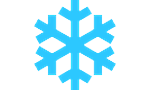
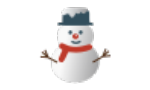
feat: 今日の天気のアイコンを細かく（強い雨→大雨・強い雪→大雪・凍る雨/霧雨を追加）、雪・大雪を雪だるまの絵に
- CODE_MAPPING: 65・82・67 → 306 大雨、75・86 → 405 大雪。56・57・66・67（凍る霧雨・凍る雨）は抜けていて「?」になっていた
- weather_icons/400.png・405.png を雪だるまに差し替え（1 週間の天気も同じ絵）
- テスト: Open-Meteo の全天気コードが対応表にあること・強さの対応
- README: 今日の天気のアイコン対応表を更新

Claude-Session: https://claude.ai/code/session_01M6MmCFRYFULb3Pq5EuzxK3

diff --git a/config.py b/config.py
@@ -96,12 +96,14 @@ AIRPORT_NAME = "中部国際空港"
 
 # Open-Meteo（WMO）の天気コード → 気象庁の天気コード（アイコン weather_icons/{コード}.png）
 CODE_MAPPING = {
-    0: "100", 1: "100", 2: "101", 3: "200",
-    45: "209", 48: "209",                       # 霧
-    51: "202", 53: "202", 55: "202",
-    61: "300", 63: "302", 65: "302",
-    71: "400", 73: "400", 75: "400",
-    77: "400", 80: "302", 81: "302",
-    82: "302", 85: "400", 86: "400",
-    95: "350", 96: "350", 99: "350"             # 雷雨（96・99 はひょうを伴う）→ 雨で雷（以前は 雨・雪 のアイコンだった）
+    0: "100", 1: "100", 2: "101", 3: "200",       # 快晴・晴れ・晴れ時々曇り・曇り
+    45: "209", 48: "209",                         # 霧
+    51: "202", 53: "202", 55: "202",              # 霧雨
+    56: "202", 57: "202",                         # 凍る霧雨（以前は抜けていて「?」になっていた）
+    61: "300", 63: "302", 65: "306",              # 雨（弱・並・強 → 強は大雨）
+    66: "300", 67: "306",                         # 凍る雨（以前は抜けていて「?」になっていた）
+    71: "400", 73: "400", 75: "405", 77: "400",   # 雪（強 → 大雪）・霧雪
+    80: "302", 81: "302", 82: "306",              # にわか雨（激しい → 大雨）
+    85: "400", 86: "405",                         # にわか雪（強 → 大雪）
+    95: "350", 96: "350", 99: "350",              # 雷雨（96・99 はひょうを伴う）→ 雨で雷
 }

diff --git a/tests/test_weather_fetch.py b/tests/test_weather_fetch.py
@@ -219,3 +219,20 @@ def test_every_mapped_code_has_icon():
     from config import ICON_DIR
     for jma in set(fw.CODE_MAPPING.values()):
         assert os.path.exists(os.path.join(ICON_DIR, f"{jma}.png")), jma
+
+
+# Open-Meteo が返す天気コード（WMO）すべて
+WMO_CODES = [0, 1, 2, 3, 45, 48, 51, 53, 55, 56, 57, 61, 63, 65, 66, 67, 71, 73, 75, 77,
+             80, 81, 82, 85, 86, 95, 96, 99]
+
+
+def test_every_wmo_code_is_mapped():
+    """抜けがあると「?（不明）」のアイコンになる（凍る雨・凍る霧雨が抜けていた）"""
+    assert [c for c in WMO_CODES if c not in fw.CODE_MAPPING] == []
+
+
+@pytest.mark.parametrize("wmo, jma", [(65, "306"), (82, "306"), (67, "306"), (75, "405"), (86, "405"),
+                                      (63, "302"), (73, "400")])
+def test_heavy_rain_and_snow_icons(wmo, jma):
+    """強い雨は「大雨」、強い雪は「大雪」。並の強さは今までどおり"""
+    assert fw.CODE_MAPPING[wmo] == jma

diff --git a/README.md b/README.md
@@ -465,13 +465,15 @@ WantedBy=multi-user.target
 | 晴れ時々曇り（2） | ![](weather_icons/101.png) `101` 晴時々曇 |
 | 曇り（3） | ![](weather_icons/200.png) `200` 曇 |
 | 霧（45・48） | ![](weather_icons/209.png) `209` 霧 |
-| 霧雨（51・53・55） | ![](weather_icons/202.png) `202` 曇一時雨 |
-| 弱い雨（61） | ![](weather_icons/300.png) `300` 雨 |
-| 雨・にわか雨（63・65・80〜82） | ![](weather_icons/302.png) `302` 雨時々止む |
-| 雪（71〜77・85・86） | ![](weather_icons/400.png) `400` 雪 |
+| 霧雨・凍る霧雨（51・53・55・56・57） | ![](weather_icons/202.png) `202` 曇一時雨 |
+| 弱い雨・弱い凍る雨（61・66） | ![](weather_icons/300.png) `300` 雨 |
+| 雨・にわか雨（63・80・81） | ![](weather_icons/302.png) `302` 雨時々止む |
+| **強い雨**・激しいにわか雨・強い凍る雨（65・82・67） | ![](weather_icons/306.png) `306` 大雨 |
+| 雪・霧雪・にわか雪（71・73・77・85） | ![](weather_icons/400.png) `400` 雪 |
+| **強い雪**・強いにわか雪（75・86） | ![](weather_icons/405.png) `405` 大雪 |
 | 雷雨（95）・ひょうを伴う雷雨（96・99） | ![](weather_icons/350.png) `350` 雨で雷 |
 
-> 2026-10 に、霧（以前は曇り）と雷雨（以前は雨、ひょうを伴うものは雪）のアイコンを直した。
+> 2026-10 に、霧（以前は曇り）と雷雨（以前は雨、ひょうを伴うものは雪）のアイコンを直し、凍る雨・凍る霧雨（以前は「?」）を追加、強い雨・強い雪を大雨・大雪にした。雪（`400`）・大雪（`405`）のアイコンは雪だるまに変更（1 週間の天気も同じ絵になる）。
 > 夜（18・21・00・03 時の列）は晴れ系（1xx）を月のアイコン（7xx）に、快晴の高温時は下の専用アイコンに替える。
 
 ### 高温時の天気アイコン切替
